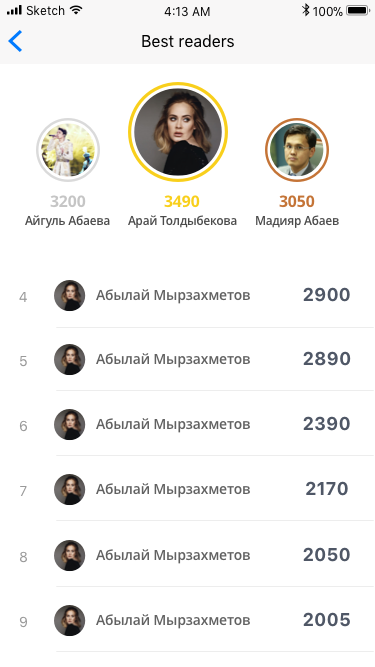
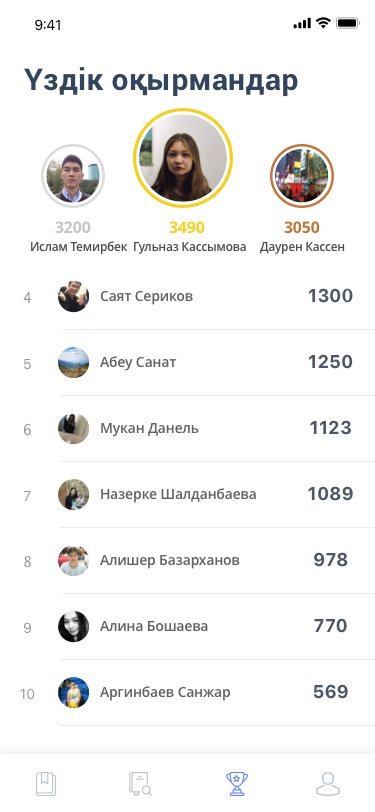
chore(design): add screens

diff --git a/design/YerTostik-boards.md b/design/YerTostik-boards.md
@@ -2,64 +2,24 @@
 
 This is an autogenerated file showing all the artboards. Do not edit it directly.
 
-## Bars
+## Books
 
-![Bars](./.exportedArtboards/YerTostik/Bars)
-
-
-## Change Profile
-
-![Change Profile](./.exportedArtboards/YerTostik/Change%20Profile.png)
+![Books](./.exportedArtboards/YerTostik/Books.png)
 
 
-## Explore (list of books)
+## Cloud
 
-![Explore (list of books)](./.exportedArtboards/YerTostik/Explore%20%28list%20of%20books%29.png)
-
-
-## Explore
-
-![Explore](./.exportedArtboards/YerTostik/Explore.png)
+![Cloud](./.exportedArtboards/YerTostik/Cloud.png)
 
 
-## Fill Personal Information
+## Congratulation
 
-![Fill Personal Information](./.exportedArtboards/YerTostik/Fill%20Personal%20Information.png)
-
-
-## LeaderBoard
-
-![LeaderBoard](./.exportedArtboards/YerTostik/LeaderBoard.png)
+![Congratulation](./.exportedArtboards/YerTostik/Congratulation.png)
 
 
-## My Library (ARKit) View
+## Leaderboard
 
-![My Library (ARKit) View](./.exportedArtboards/YerTostik/My%20Library%20%28ARKit%29%20View.png)
-
-
-## My Library (Congratulation)
-
-![My Library (Congratulation)](./.exportedArtboards/YerTostik/My%20Library%20%28Congratulation%29.png)
-
-
-## My Library (Reader View)
-
-![My Library (Reader View)](./.exportedArtboards/YerTostik/My%20Library%20%28Reader%20View%29.png)
-
-
-## My Library(active tab audios)
-
-![My Library(active tab audios)](./.exportedArtboards/YerTostik/My%20Library%28active%20tab%20audios%29.png)
-
-
-## My Library(active tab books)
-
-![My Library(active tab books)](./.exportedArtboards/YerTostik/My%20Library%28active%20tab%20books%29.png)
-
-
-## Overrides
-
-![Overrides](./.exportedArtboards/YerTostik/Overrides)
+![Leaderboard](./.exportedArtboards/YerTostik/Leaderboard.png)
 
 
 ## Profile
@@ -67,22 +27,12 @@ This is an autogenerated file showing all the artboards. Do not edit it directly
 ![Profile](./.exportedArtboards/YerTostik/Profile.png)
 
 
-## Registration
-
-![Registration](./.exportedArtboards/YerTostik/Registration.png)
-
-
 ## Settings
 
 ![Settings](./.exportedArtboards/YerTostik/Settings.png)
 
 
-## Verify Phone Number
+## Tab Bar
 
-![Verify Phone Number](./.exportedArtboards/YerTostik/Verify%20Phone%20Number.png)
-
-
-## Welcome Page
-
-![Welcome Page](./.exportedArtboards/YerTostik/Welcome%20Page.png)
+![Tab Bar](./.exportedArtboards/YerTostik/Tab%20Bar.png)
 
